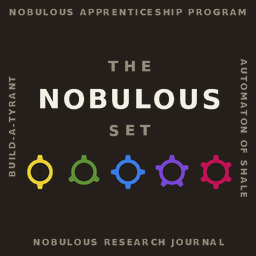
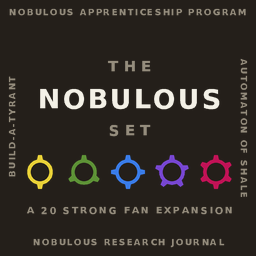
The cover says what the set is
'A 20 STRONG FAN EXPANSION' under the gears - CONTENT_NOTICE.md's
first line in five words. The set is unofficial and needs a copy of
20 Strong to play, and a cover in a list of mods is the one place
worth saying that before anything is opened.

Fitted rather than sized by eye: the line is 25 characters and the
two vertical names eat into both margins, so the size is whatever
gets it inside them.

Changed region(s): [[0.25, 0.7812, 0.9062, 0.8438], [0.0938, 0.8125, 0.2188, 0.8438]]

diff --git a/tts/make_cover.py b/tts/make_cover.py
@@ -166,6 +166,21 @@ def cover():
     spaced(im, "NOBULOUS", 107, 27, CREAM, 2.0)
     spaced(im, "SET", 134, 15, MUTED, 5.0)
 
+    # WHAT IT IS, under the gears. CONTENT_NOTICE.md's first line in
+    # five words: the set is unofficial and needs a copy of 20
+    # Strong to play, and a cover in a list of mods is the one place
+    # that is worth saying before anything is opened.
+    #
+    # FITTED RATHER THAN SIZED BY EYE: the line is 25 characters and
+    # the two vertical names eat into both margins, so the size is
+    # whatever gets it inside them.
+    tag = "A 20 STRONG FAN EXPANSION"
+    run = SIDE - 2 * (EDGE_INSET + 16)
+    tpx, ttrack = 11.0, 1.8
+    while tpx > 5.0 and line_px(tag, tpx, ttrack)[0] > run:
+        tpx -= 0.25
+    spaced(im, tag, 212, tpx, MUTED, ttrack)
+
     # THE FOUR GAMES AROUND THE EDGE, spelled out. The three-letter
     # codes are what the set calls them everywhere else, and they
     # tell a stranger nothing; a cover has room to say them once.
